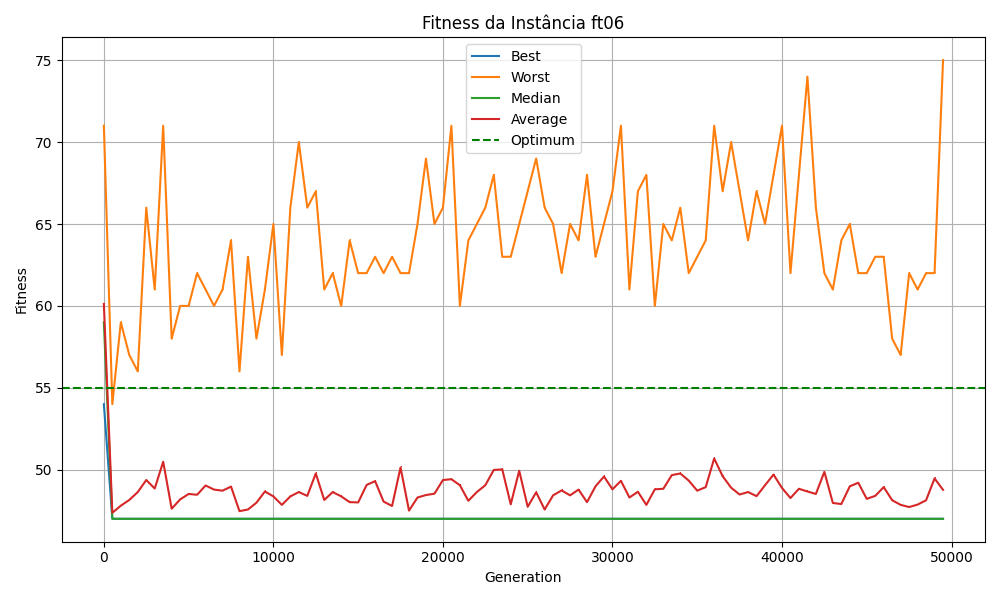
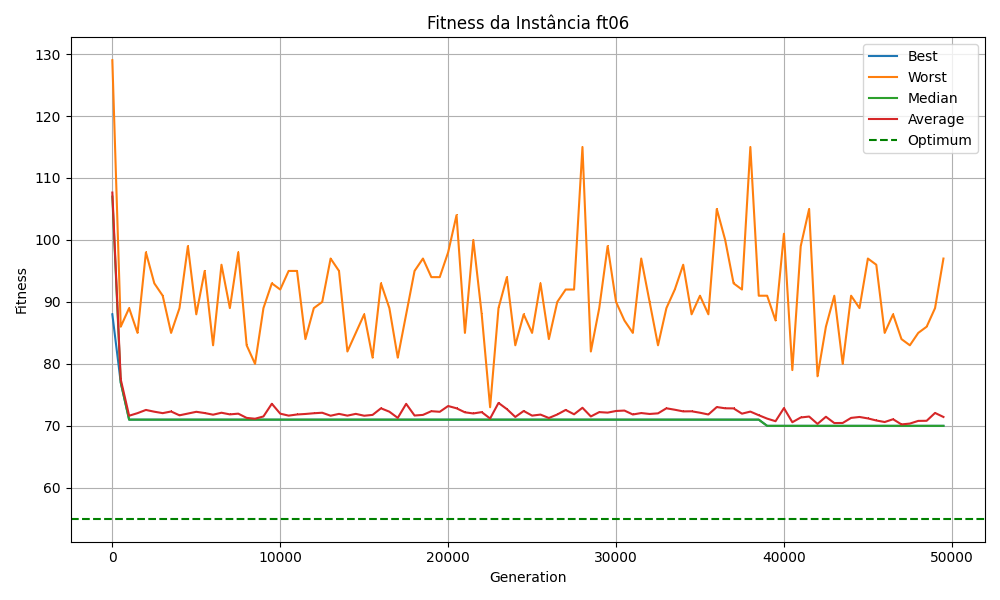
usando nova função de fitness

diff --git a/ga/cromossome.go b/ga/cromossome.go
@@ -72,7 +72,7 @@ func fixGenes(offspring []int, numJobs int, numMachines int) []int {
 }
 
 // CalcularFitness avalia a aptidão de um indivíduo com base no tempo total decorrido
-func (instance *JobShopInstance) CalculateMakespan(cromossome *Cromossome) int {
+func (instance *JobShopInstance) CalculateMakespan02(cromossome *Cromossome) int {
 	// Inicializar tempos de término para cada job e máquina
 	jobCompletion := make([]int, instance.numJobs)           // Tempo de término dos jobs
 	machineAvailability := make([]int, instance.numMachines) // Tempo de disponibilidade das máquinas
@@ -134,7 +134,7 @@ func (instance *JobShopInstance) Mutate(cromossome *Cromossome) {
 }
 
 // Função que retorna o fitness de um indivíduo baseado na geração de um schedule ativo
-func CalcularFitness(instance *JobShopInstance, individuo *Cromossome) int {
+func (instance *JobShopInstance) CalculateMakespan(individuo *Cromossome) int {
 	// Inicializar tempos de término para cada job e máquina
 	jobCompletion := make([]int, instance.numJobs)           // Tempo de término dos jobs
 	machineAvailability := make([]int, instance.numMachines) // Tempo de disponibilidade das máquinas
@@ -142,8 +142,6 @@ func CalcularFitness(instance *JobShopInstance, individuo *Cromossome) int {
 
 	// Iterar sobre o genoma do indivíduo (sequência de jobs)
 	for _, jobID := range individuo.genome {
-		jobID-- // Ajustar para 0-indexado
-
 		// Pegar a próxima operação desse job
 		opIndex := jobNextOperation[jobID]
 		machineID := opIndex                           // A máquina correspondente à operação
